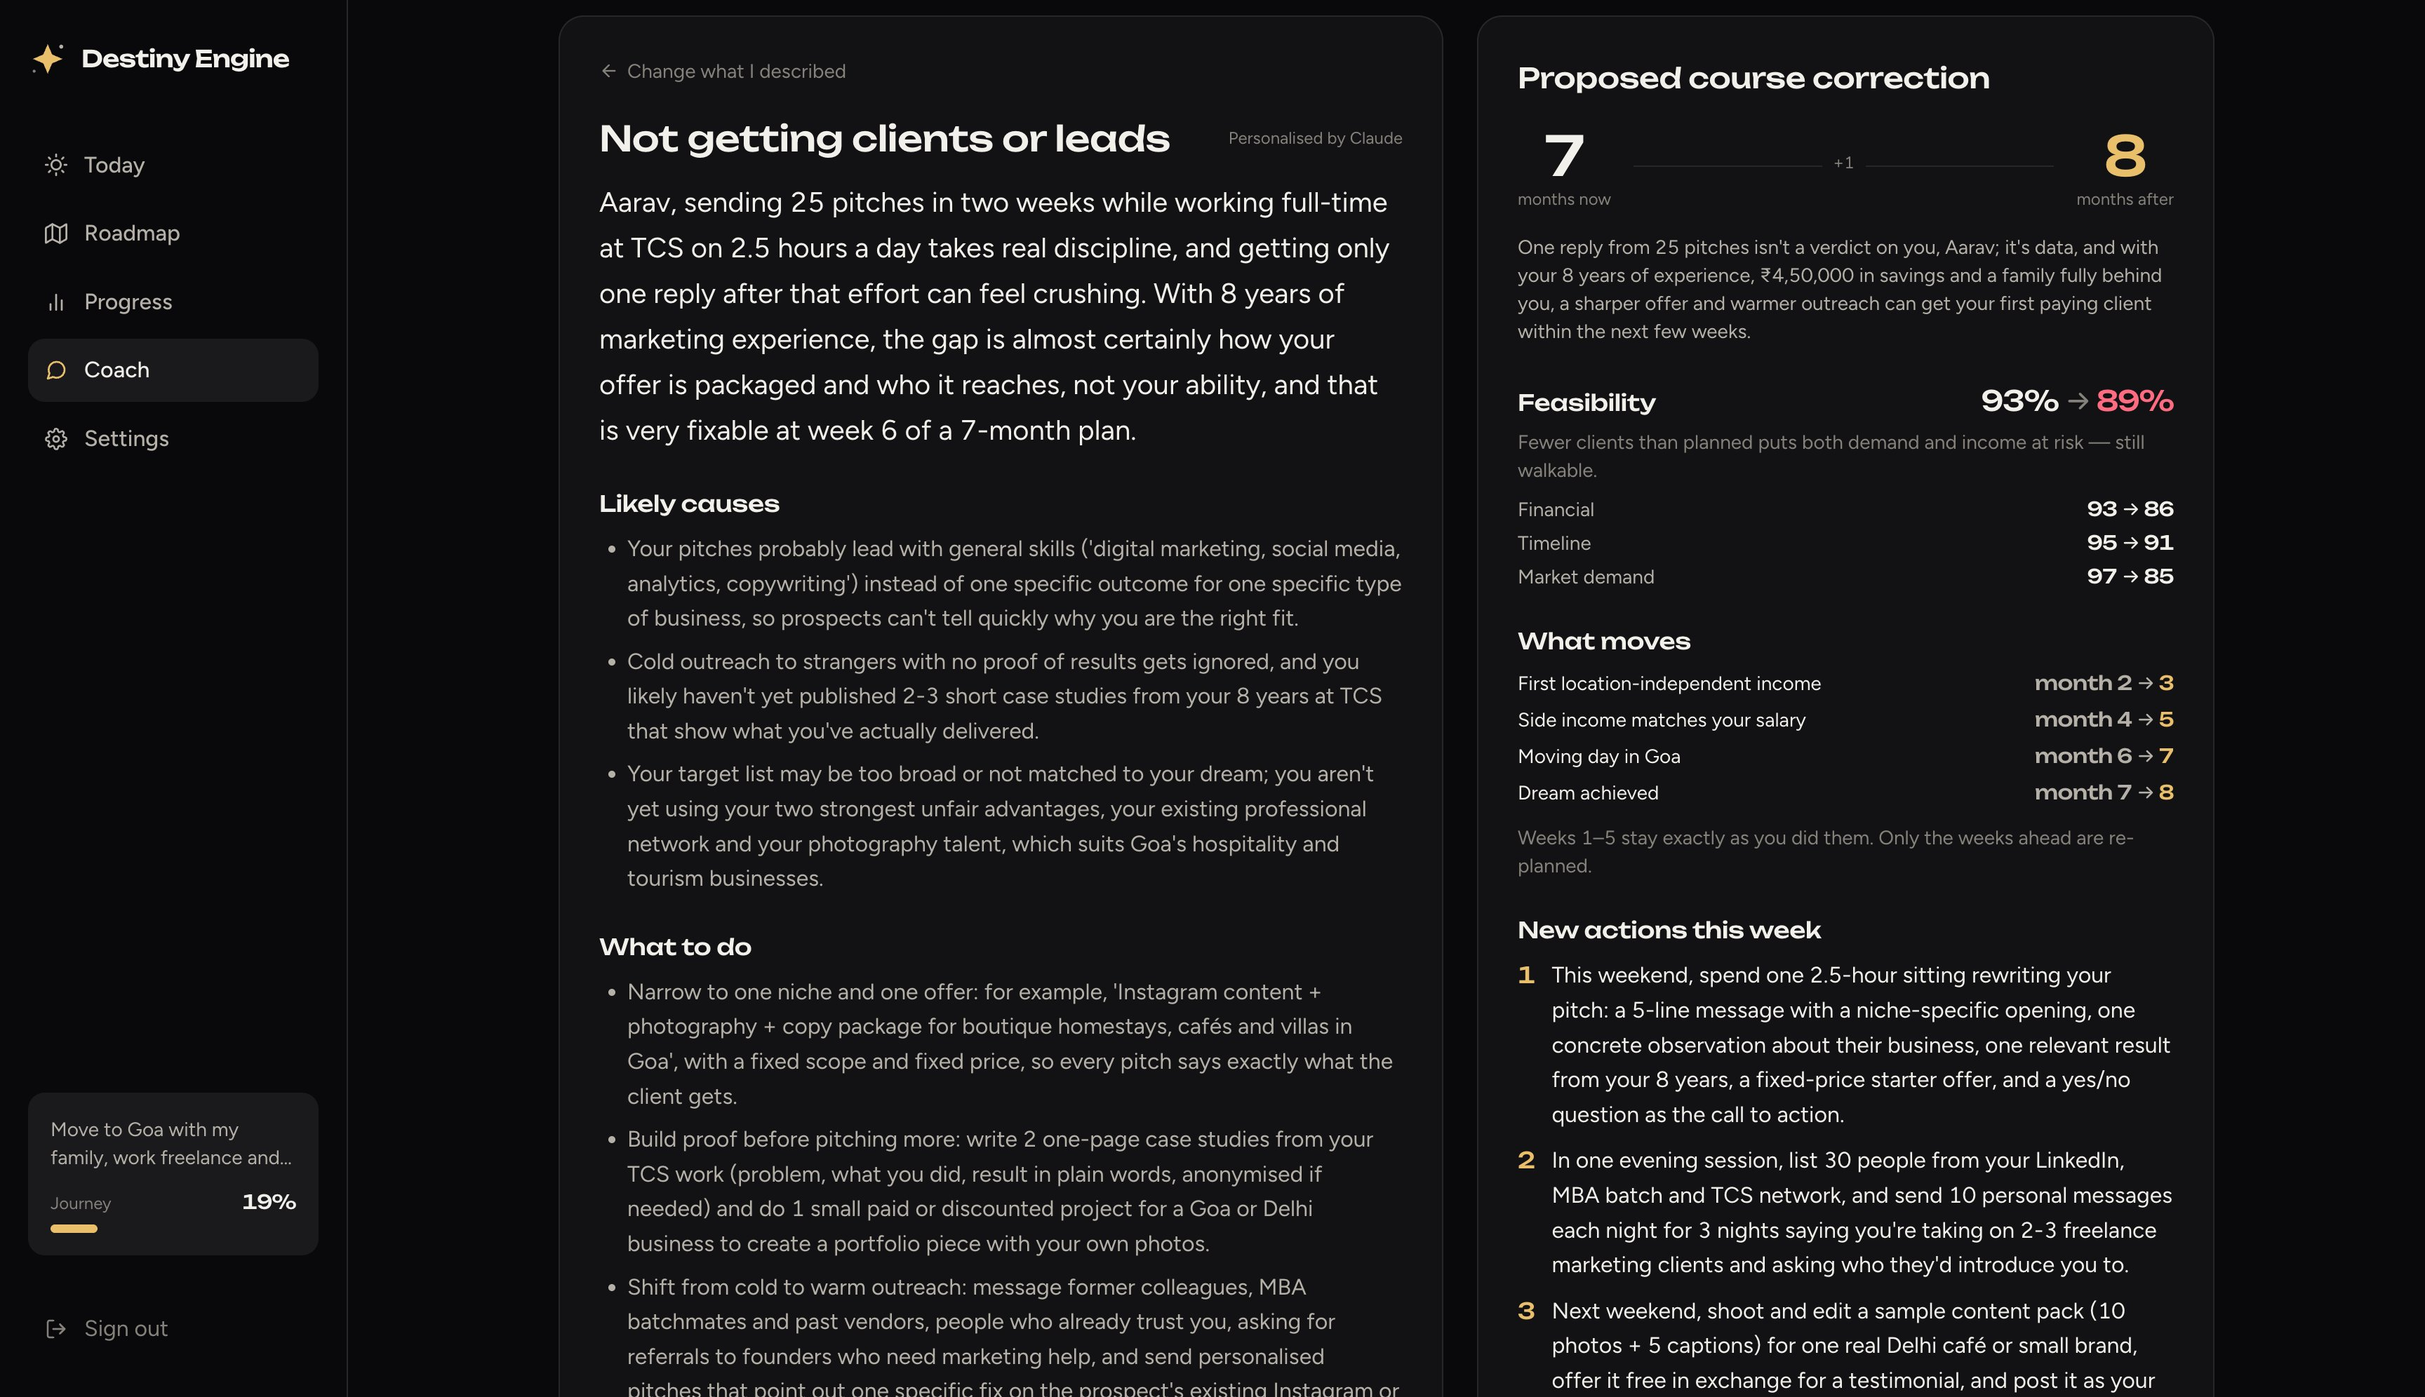
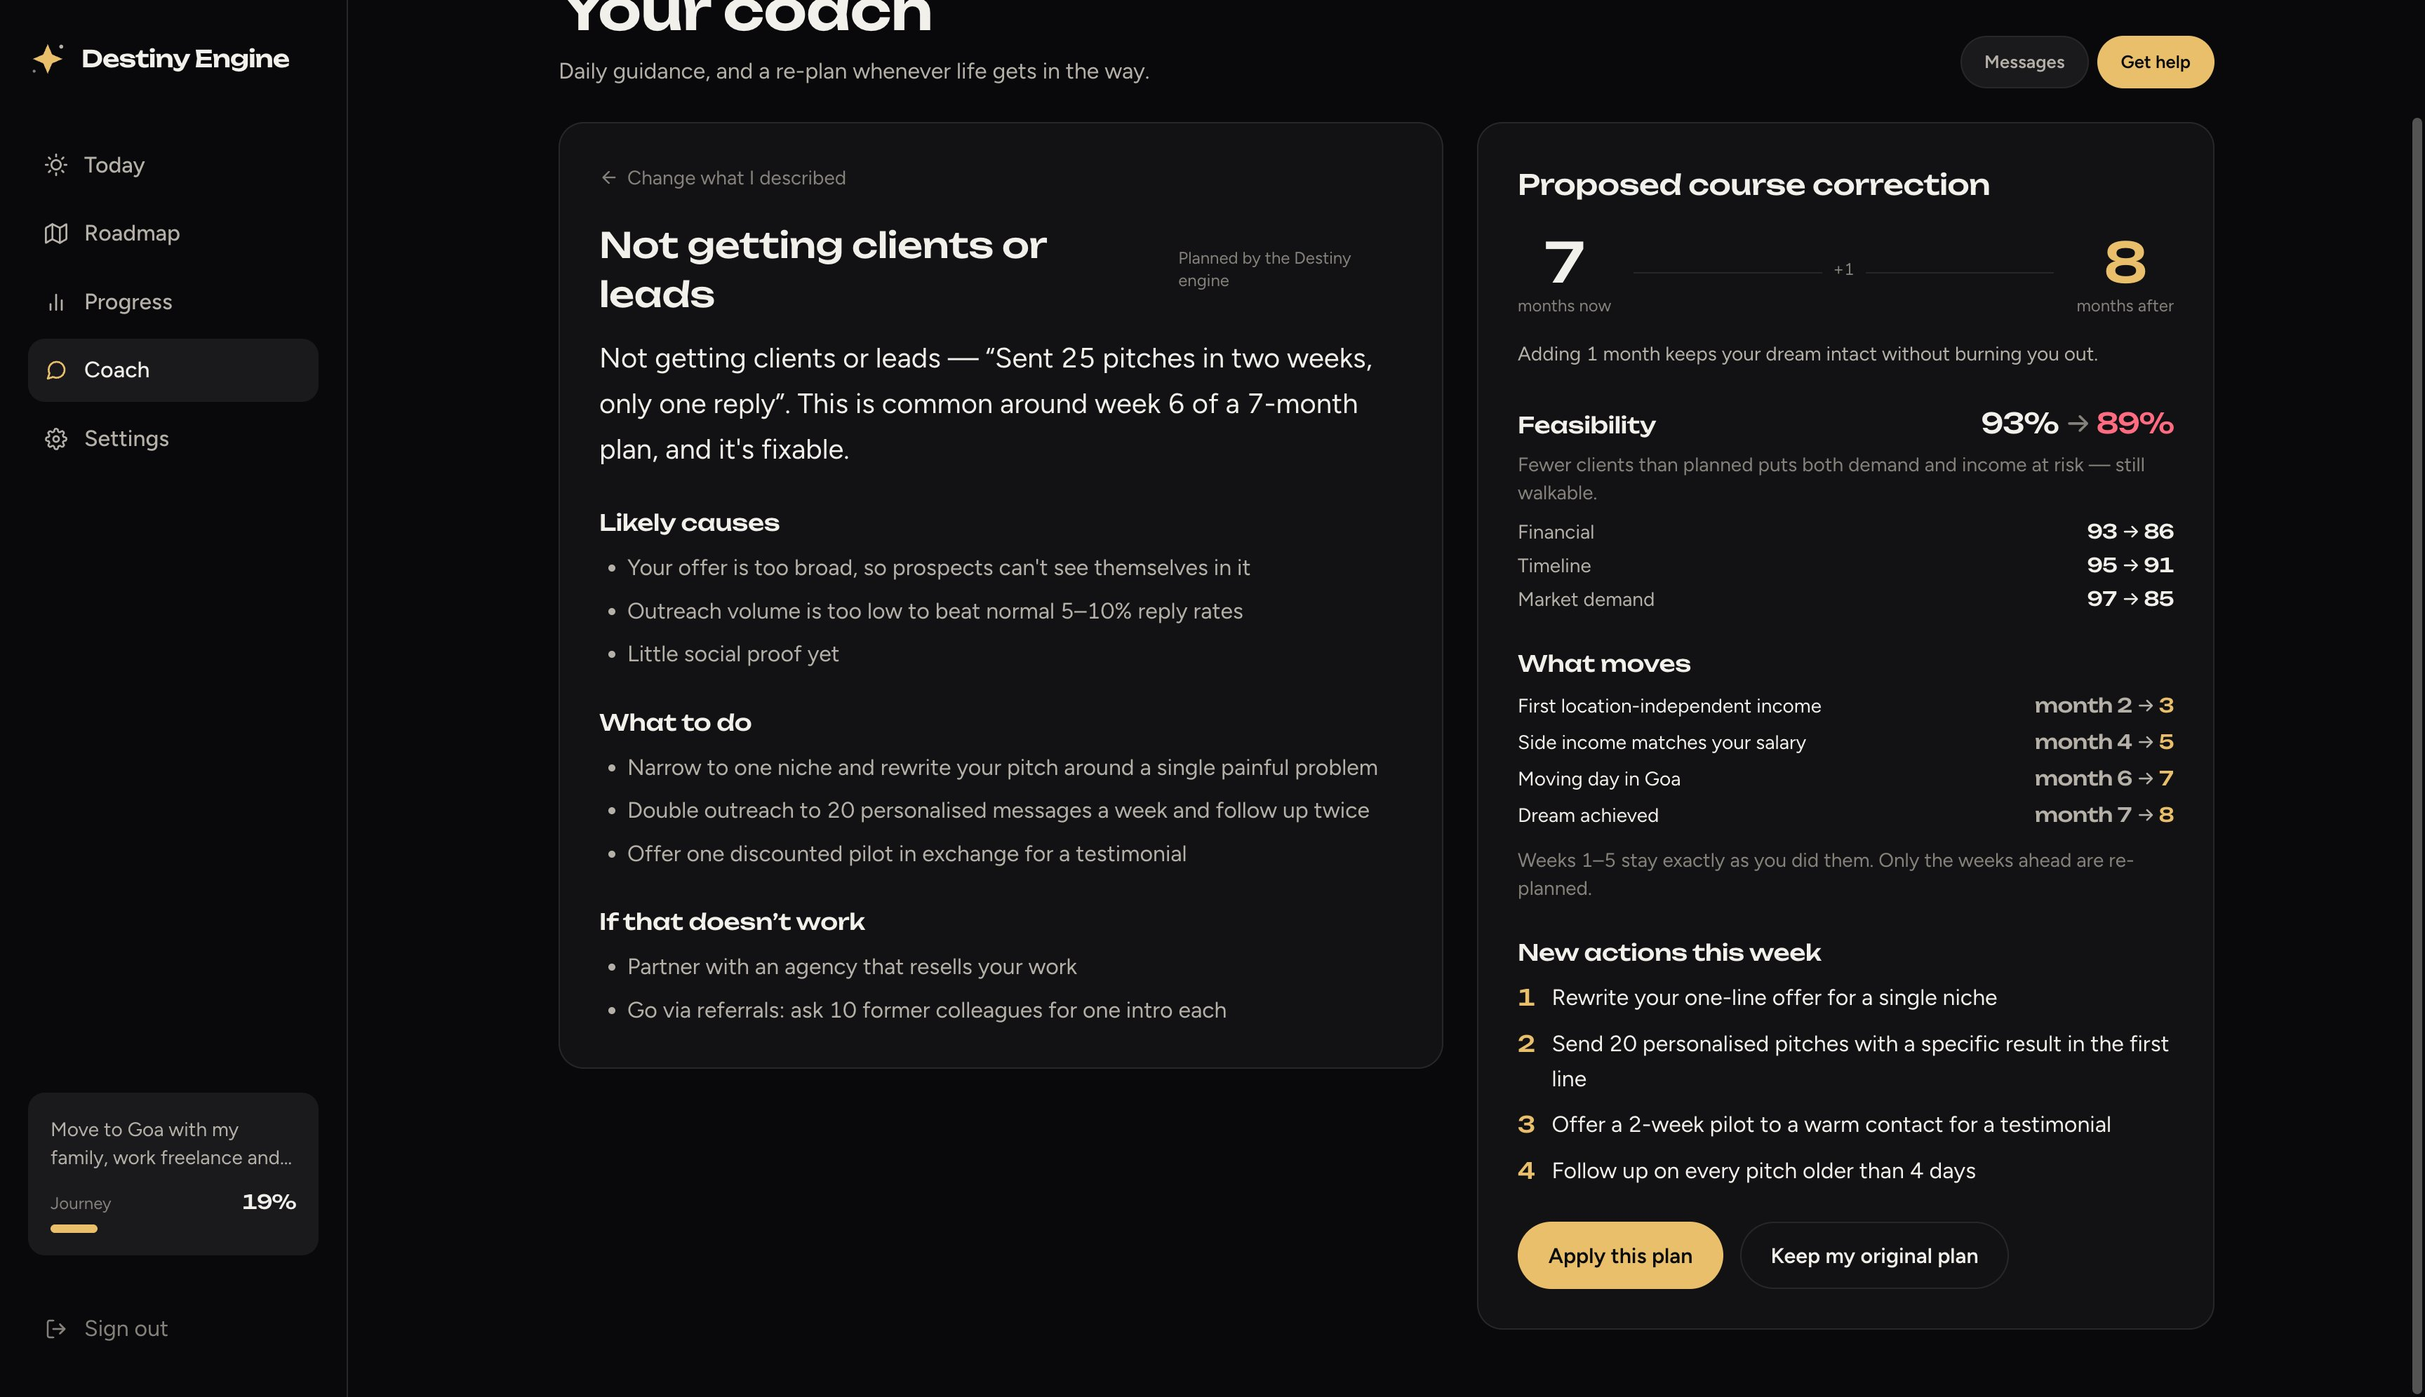
Demo persona is Bharat Rawat; simple demo login demo@demo.com / demo1234
- Rename the demo user across app data, demo UI, deck, pitch and README
- Fresh browser storage key so old demo data doesn't linger
- Re-captured Today and course-correction screenshots

diff --git a/server/src/data/demo.js b/server/src/data/demo.js
@@ -1,12 +1,12 @@
-// Aarav's demo journey as plain data: used by the API seed (seed.js) and the browser-only demo build.
+// Bharat's demo journey as plain data: used by the API seed (seed.js) and the browser-only demo build.
 import * as engine from '../ai/engine.js';
 
-export const DEMO_EMAIL = 'demo@destiny.app';
-export const DEMO_PASSWORD = 'dream-big-2026';
-export const DEMO_NAME = 'Aarav Mehta';
+export const DEMO_EMAIL = 'demo@demo.com';
+export const DEMO_PASSWORD = 'demo1234';
+export const DEMO_NAME = 'Bharat Rawat';
 
 export const DEMO_PROFILE = {
-  basicInfo: { name: 'Aarav Mehta', age: 32, location: 'Delhi', maritalStatus: 'married', childrenCount: 2, childrenAges: [8, 6], education: 'MBA, Marketing' },
+  basicInfo: { name: 'Bharat Rawat', age: 32, location: 'Delhi', maritalStatus: 'married', childrenCount: 2, childrenAges: [8, 6], education: 'MBA, Marketing' },
   financial: { monthlyIncome: 125000, monthlyExpenses: 70000, savings: 450000, debts: 500000, investments: 2000000, assets: ['apartment', 'car'], creditScore: 750 },
   professional: { currentJob: 'Marketing Manager', currentCompany: 'TCS', yearsExperience: 8, skills: ['Digital marketing', 'Social media', 'Analytics', 'Copywriting'], softSkills: ['Communication', 'Leadership'], hiddenTalents: 'Photography', remoteCapability: 0.95, growthPotential: 'limited' },
   personal: { healthStatus: 'good', riskTolerance: 'medium', availableHours: 2.5, motivationLevel: 9, learningSpeed: 'fast', familySupport: 'high' },
@@ -47,7 +47,7 @@ export function buildDemoJourney(now = Date.now()) {
     currentWeek: 6, completedWeeks: [1, 2, 3, 4, 5], celebrated: [], startedAt: started.toISOString(),
   };
   const messages = [
-    [32, 'nudge', '💪', 'Good morning, Aarav. Today\'s move: build a 3-piece portfolio from past campaigns. Week 1 is 40% done — you\'re on track.', 'Build your portfolio'],
+    [32, 'nudge', '💪', 'Good morning, Bharat. Today\'s move: build a 3-piece portfolio from past campaigns. Week 1 is 40% done — you\'re on track.', 'Build your portfolio'],
     [25, 'celebration', '🎉', 'First freelance rupee earned! ₹12,000 from your trial project — proof that your skills travel.', 'Ask the client for a testimonial'],
     [18, 'tip', '💡', 'Batch your outreach on Tuesdays and creative work on Thursdays. Context switching costs ~20 minutes each time.', 'Block Tuesday 8–9pm for pitches'],
     [11, 'opportunity', '✨', 'Two D2C brands in your network are hiring short-term social media help. Spend 20 minutes on targeted pitches.', 'Send 2 pitches before lunch'],

diff --git a/demo/slides.html b/demo/slides.html
@@ -214,7 +214,7 @@
       <section data-wp="3">
         <div class="split even">
           <div>
-            <p class="kicker">Meet Aarav</p>
+            <p class="kicker">Meet Bharat</p>
             <h2>32, Delhi.<br/>Wants the beach.</h2>
             <dl class="persona-grid">
               <div><dt>Work</dt><dd>Marketing manager, 8 yrs</dd></div>
@@ -238,7 +238,7 @@
           </div>
         </div>
         <aside class="notes">
-          Our demo persona is the sample from the brief. Aarav has real constraints — two kids, a loan, limited time. Destiny Engine doesn't say "follow your passion"; it says 93% feasible, here's why, and here's the 7-month route with the moving day in month 6. This is the account we'll open live.
+          Our demo persona is Bharat. He has real constraints — two kids, a loan, limited time. Destiny Engine doesn't say "follow your passion"; it says 93% feasible, here's why, and here's the 7-month route with the moving day in month 6. This is the account we'll open live.
         </aside>
       </section>
 
@@ -434,7 +434,7 @@
         <div class="split even">
           <div>
             <p class="kicker">Live demo</p>
-            <h2>Let’s walk Aarav’s map</h2>
+            <h2>Let’s walk Bharat’s map</h2>
             <p class="url">localhost:5173 → Explore a live demo</p>
           </div>
           <ol class="demo-list">

diff --git a/client/src/pages/Landing.jsx b/client/src/pages/Landing.jsx
@@ -89,12 +89,12 @@ export default function Landing() {
         <section className="relative z-10 max-w-[1180px] mx-auto px-4 sm:px-8 -mt-20 pb-16 grid lg:grid-cols-[1fr_1.15fr] gap-10 items-center">
           <div className="lg:pr-6">
             <h2 className="text-2xl sm:text-3xl max-w-[18ch]">One dream, one week at a time</h2>
-            <p className="text-ink-2 mt-4 max-w-[46ch]">Aarav wants to leave Delhi for Goa with his family. Destiny Engine scored it 93% feasible, split it into four phases, and handed him seven concrete actions for this week.</p>
+            <p className="text-ink-2 mt-4 max-w-[46ch]">Bharat wants to leave Delhi for Goa with his family. Destiny Engine scored it 93% feasible, split it into four phases, and handed him seven concrete actions for this week.</p>
           </div>
           <div className="panel glass p-5 sm:p-6 min-w-0 float shadow-[0_30px_80px_-30px_rgba(0,0,0,0.8)]">
             <div className="flex flex-wrap items-baseline justify-between gap-2">
               <div>
-                <div className="text-sm text-ink-3">Aarav’s dream</div>
+                <div className="text-sm text-ink-3">Bharat’s dream</div>
                 <div className="font-semibold">Move to Goa, freelance, live by the beach</div>
               </div>
               <div className="text-right">

diff --git a/client/src/demo/backend.js b/client/src/demo/backend.js
@@ -6,7 +6,7 @@ import { computeStats, statsOut, emptyProgress } from '@server/lib/stats.js';
 import { TEMPLATES, getTemplate } from '@server/data/templates.js';
 import { DEMO_EMAIL, DEMO_PASSWORD, DEMO_NAME, buildDemoJourney } from '@server/data/demo.js';
 
-const KEY = 'de-demo-db-v1';
+const KEY = 'de-demo-db-v2';
 const DEFAULT_SETTINGS = { theme: 'dark', coachingTime: 'morning', emailNotifications: true, pushNotifications: true, weeklySummary: true };
 const blank = () => ({ users: {}, profiles: {}, dreams: [], roadmaps: [], progress: {}, messages: [], adaptations: {} });
 
@@ -340,7 +340,7 @@ export function createDemoApi(tokens) {
       return { adaptationId: id, roadmapId: ctx.roadmap.id, advice, source: 'engine' };
     }, { ...w, ms: 1200 }),
 
-    /** Demo-only: put Aarav's journey back to day one of the demo. */
+    /** Demo-only: put Bharat's journey back to day one of the demo. */
     resetDemo: handler(() => {
       const user = seedDemo();
       return { token: `demo.${user.id}`, user: publicUser(user) };

diff --git a/client/src/pages/Auth.jsx b/client/src/pages/Auth.jsx
@@ -53,7 +53,7 @@ export default function Auth({ mode }) {
               <ErrorNote error={error} />
               <button className="btn btn-primary w-full mt-2" disabled={busy}>{busy ? 'One moment…' : isSignup ? 'Create account' : 'Sign in'}</button>
               <button type="button" className="btn btn-ghost w-full" disabled={busy} onClick={() => finish(api.demo())}>Use the demo account</button>
-              {DEMO && <p className="text-xs text-ink-3 text-center">Demo login: demo@destiny.app / dream-big-2026. New accounts are saved in this browser only.</p>}
+              {DEMO && <p className="text-xs text-ink-3 text-center">Demo login: demo@demo.com / demo1234. New accounts are saved in this browser only.</p>}
             </div>
             <p className="text-sm text-ink-3 mt-6">
               {isSignup ? <>Already have an account? <Link className="text-gold-text font-semibold" to="/signin">Sign in</Link></>

diff --git a/client/src/demo/DemoBar.jsx b/client/src/demo/DemoBar.jsx
@@ -20,7 +20,7 @@ export default function DemoBar() {
     <div className="bg-surface border-b border-line text-xs text-ink-2 px-4 py-2 flex flex-wrap items-center justify-center gap-x-5 gap-y-1">
       <span><span className="text-gold-text font-semibold">Live demo</span> · the whole app runs in your browser — no server, nothing leaves this device</span>
       <a href={`${BASE}slides.html`} className="font-semibold text-ink hover:text-gold-text">Pitch slides →</a>
-      <button onClick={reset} disabled={busy} className="font-semibold text-ink hover:text-gold-text">{busy ? 'Resetting…' : 'Reset Aarav’s demo'}</button>
+      <button onClick={reset} disabled={busy} className="font-semibold text-ink hover:text-gold-text">{busy ? 'Resetting…' : 'Reset Bharat’s demo'}</button>
     </div>
   );
 }

diff --git a/client/src/pages/Settings.jsx b/client/src/pages/Settings.jsx
@@ -32,7 +32,7 @@ export default function Settings() {
 
   if (!data) return <Spinner />;
   const s = data.user.settings;
-  const isDemo = data.user.email === 'demo@destiny.app';
+  const isDemo = data.user.email === 'demo@demo.com';
 
   async function save(patch) {
     setError(null);

diff --git a/demo/PITCH.md b/demo/PITCH.md
@@ -30,7 +30,7 @@ Destiny Engine takes ten minutes to understand your life — money, skills, fami
 | 1 | **Destiny Engine** | 0:00 | "We built Destiny Engine. You tell it where your life is and where you want it to be; it turns that dream into a map you can walk. The stars behind me are the product's metaphor — every month of your plan is a star." |
 | 2 | **The problem** | 0:15 | "Everyone has a dream; almost no one has a plan for this Tuesday. Three things fail: advice is generic, nobody notices when you drift, and one obstacle kills a static plan." *(click the three cards)* |
 | 3 | **Insight** | 0:40 | "The gap isn't motivation — it's translation. From a dream in plain words, through your real constraints, to seven actions this week." |
-| 4 | **Meet Aarav** | 1:00 | "Aarav is 32, in Delhi, two kids, a loan, 2.5 hours a day. He wants Goa. Destiny Engine says 93% feasible, 7 months, moving day in month 6." |
+| 4 | **Meet Bharat** | 1:00 | "Bharat is 32, in Delhi, two kids, a loan, 2.5 hours a day. He wants Goa. Destiny Engine says 93% feasible, 7 months, moving day in month 6." |
 | 5 | **How it works** | 1:20 | "Four steps, under ten minutes: map your life, name your dream, see if it adds up, walk the roadmap." |
 | 6 | **Feasibility** | 1:35 | "Honest before hopeful — six scored dimensions, each explained with your own rupees." |
 | 7 | **Roadmap** | 1:50 | "Your plan is a constellation. Every action has a time estimate, a tool and a 'done when'." |
@@ -52,7 +52,7 @@ Start with the app open at `http://localhost:5173` in a separate Chrome window, 
    *"This is the journey metaphor in 3D. Let's open a real journey."* → click **Explore a live demo**.
 
 2. **Today (40s)** — Point at the coach card.
-   *"Aarav is in week 6. This message is generated from his live progress."*
+   *"Bharat is in week 6. This message is generated from his live progress."*
    Tick **today's action** → the week bar and journey % move.
 
 3. **Roadmap (40s)** — Click **Roadmap**.
@@ -179,7 +179,7 @@ Some claims that circulate about Destiny Engine aren't backed by the product or 
 |---|---|---|
 | "Beta data: 92% finished week 1, 87% month 1, 5.2 days/week" · "92% 30-day retention" | There are no beta users yet. | "Week-1 and month-1 completion are the first numbers we'd measure in a pilot." |
 | Competitor scorecards ("ChatGPT 20%, Notion 0%…") | The percentages are invented. | Use the qualitative comparison: one-off advice vs a persistent plan that tracks money and re-plans. |
-| "Priya, 31, moved to Goa…" as a real success story | The stories are illustrative composites (the app labels them). | "An illustrative path for a profile like Aarav's." |
+| "Priya, 31, moved to Goa…" as a real success story | The stories are illustrative composites (the app labels them). | "An illustrative path for a profile like Bharat's." |
 | "Feasibility 96% → 78%" · "moving day month 5" | The app computes 93% → 89% and moving day month 6 → 7 for this setback. | Quote what the screen shows, as in the demo script. |
 | "Tier 3: Agent SDK, local inference, works offline, never fails" | The Agent SDK uses your Claude Code login over the internet. Only the deterministic engine is offline. | "Claude API → Claude via local login → built-in engine; the engine always answers, offline." |
 | "Prompt caching makes repeats free" | We cache identical analyses in memory; we haven't measured API cost savings. | "Repeat analyses are cached, so the same request doesn't call the model twice." |

diff --git a/README.md b/README.md
@@ -11,7 +11,7 @@ pnpm install
 pnpm dev            # API on :4000, app on http://localhost:5173
 ```
 
-Click **Explore a live demo** on the landing page (or sign in as `demo@destiny.app` / `dream-big-2026`) to see a seeded journey: Aarav's "move to Goa" plan, five weeks in, with income logged and coaching history.
+Click **Explore a live demo** on the landing page (or sign in as `demo@demo.com` / `demo1234`) to see a seeded journey: Bharat's "move to Goa" plan, five weeks in, with income logged and coaching history.
 
 **AI providers, picked automatically (check `GET /api/health` → `ai.provider`):**
 
@@ -39,7 +39,7 @@ pnpm build && pnpm start   # serves the built client + API on :4000
 - `slides.html`: the pitch deck (`slide.html` redirects to it), with a button back to the app.
 - `404.html`: a copy of the app, so deep links like `/today` work on GitHub Pages.
 
-Sign in with **Explore a live demo** (or `demo@destiny.app` / `dream-big-2026`), or create an account; a bar at the top links to the slides and resets Aarav's demo. Pushing the `demo` branch runs `.github/workflows/pages.yml`, which builds with `VITE_BASE=/<repo>/` and deploys to GitHub Pages. Preview locally with `VITE_BASE=/ pnpm build:demo` and any static server.
+Sign in with **Explore a live demo** (or `demo@demo.com` / `demo1234`), or create an account; a bar at the top links to the slides and resets Bharat's demo. Pushing the `demo` branch runs `.github/workflows/pages.yml`, which builds with `VITE_BASE=/<repo>/` and deploys to GitHub Pages. Preview locally with `VITE_BASE=/ pnpm build:demo` and any static server.
 
 ## How the AI works
 
